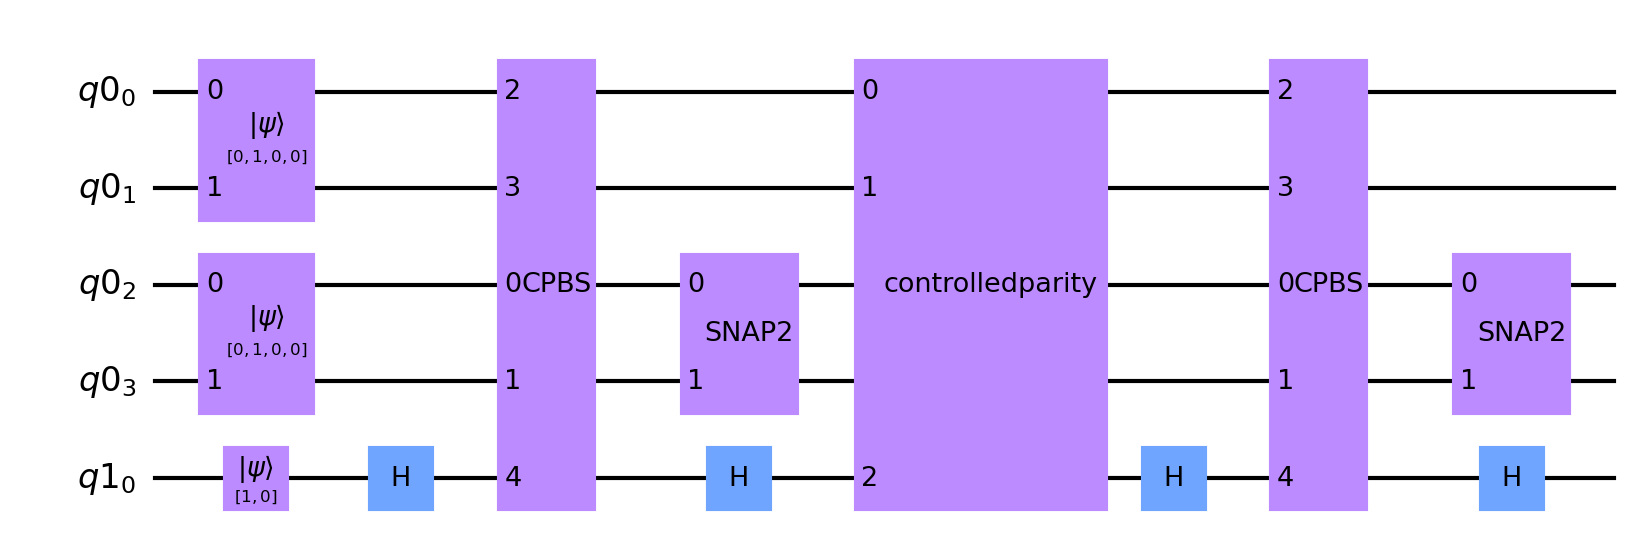
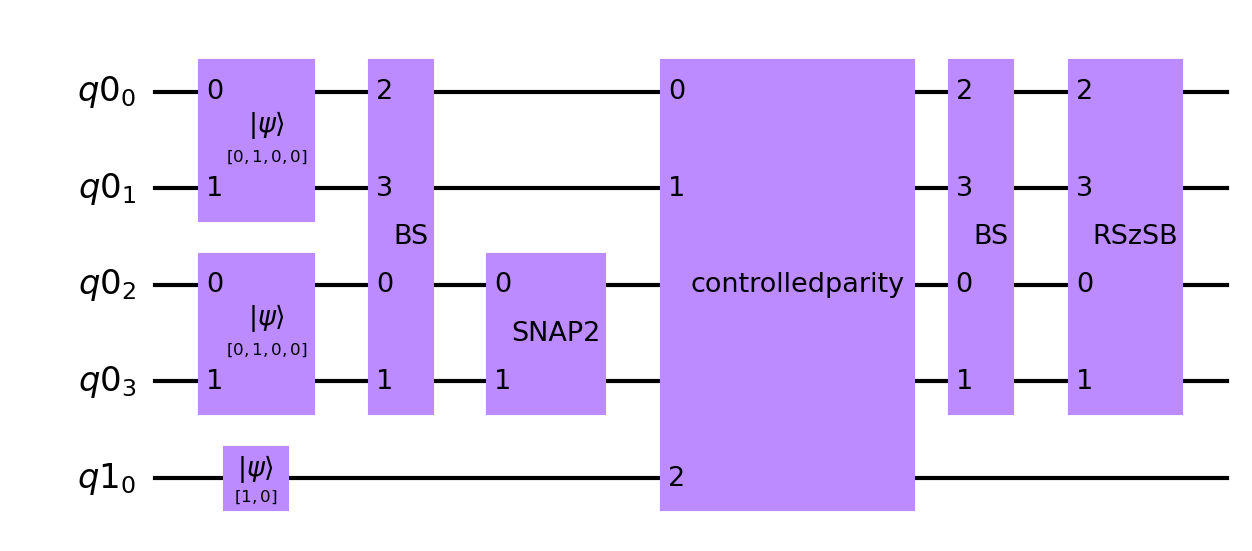
Newer version works to within a global phase

diff --git a/c2qa/aklt.py b/c2qa/aklt.py
@@ -24,69 +24,52 @@ three=np.array([0,0,0,1])
 two=np.array([0,0,1,0])
 one=np.array([0,1,0,0])
 zero=np.array([1,0,0,0])
-projtwo=np.outer(two,two.T)
+projtwo=np.outer(two,two)
 
 # Choose initial state
-qbinist=0
+qbinist=1
 samestallmodes=1
-diffstallmodes=[1,1]
+diffstallmodes=[2,0]
 
 # Initialize qubit
 # circuit.initialize((1 / np.sqrt(2)) * np.array([1, 1]), qbr[0])
 qubitinitialstate=[[zeroQB,"0"],[oneQB,"1"]]
 circuit.initialize(qubitinitialstate[qbinist][0], qbr[0])
 # Initialize both qumodes to a zero spin 1 state (Fock state 1)
-# for i in range(qmr.num_qumodes):
-#     circuit.cv_initialize(samestallmodes, qmr[i])
-circuit.cv_initialize(diffstallmodes[0], qmr[0])
-circuit.cv_initialize(diffstallmodes[1], qmr[1])
-# circuit.cv_initialize(diffstallmodes[2], qmr[2])
-# circuit.cv_initialize(diffstallmodes[3], qmr[3])
+for i in range(qmr.num_qumodes):
+    circuit.cv_initialize(samestallmodes, qmr[i])
 # Check the input state is normalised
 # state0, _ = c2qa.util.simulate(circuit)
 # print("normalised initial state ", np.conj(state0.data).T.dot(state0))
 # print(arg)
 
-# Apply circuit from table with extra snap to correct for the phase
-# for i in range(numberofmodes-1):
-#     if (i % 2) == 0:
-#         circuit.cv_aklt(qmr[i], qmr[i+1], qbr[0])
-#         circuit.cv_snap2(qmr[i+1])
-
-# listofthetas=np.pi*np.array([1,0.5,0.25])
-# list=np.zeros([len(listofthetas)])
-# for theta in range(listofthetas):
-#     circuit.cv_initialize(diffstallmodes[0], qmr[0])
-#     circuit.cv_initialize(diffstallmodes[1], qmr[1])
-#     circuit.cv_cpbs(-theta, qmr[1], qmr[0], qbr[0])
-#     circuit.cv_bs(theta, qmr[1], qmr[0])
-#     state, _ = c2qa.util.simulate(circuit)
-#     projectors.overlap(state, numberofmodes, qbinist, samestallmodes, diffstallmodes, "diffstallmodes", "all")
-
-# # Native gates circuit
+# Native gates circuit
 for i in range(numberofmodes-1):
     if (i % 2) == 0:
-        circuit.h(qbr[0])
-        circuit.cv_cpbs(np.arctan(1/np.sqrt(2)), qmr[i+1], qmr[i], qbr[0])
-        circuit.h(qbr[0])
-        circuit.cv_controlledparity(qmr[i],qbr[0])
+        circuit.cv_bs(np.arctan(1/np.sqrt(2)), qmr[i+1], qmr[i])
         circuit.cv_snap2(qmr[i + 1])
-        circuit.h(qbr[0])
-        circuit.cv_cpbs(np.pi/4, qmr[i+1], qmr[i], qbr[0])
-        circuit.h(qbr[0])
-        circuit.cv_snap2(qmr[i+1])
+        circuit.cv_controlledparity(qmr[i],qbr[0])
+        circuit.cv_bs(np.pi/4, qmr[i+1], qmr[i])
+        circuit.x(qbr[0])
+        circuit.cv_snap1X(qmr[i],qbr[0])
+        # circuit.cv_snap2(qmr[i + 1])
+        circuit.x(qbr[0])
+        circuit.z(qbr[0])
+        circuit.x(qbr[0])
 
+stateAKLT, _ = c2qa.util.simulate(circuit)
+# circuit.cv_RSzSB(qmr[1],qmr[0])
 # print(circuit)
 
 # diffstallmodes=[1,1]
 # gatetesting.differentThetaInitialisation(qmr, circuit, numberofmodes, qbinist, samestallmodes, diffstallmodes)
 
 #simulate circuit and see if it's normalised
-state, _ = c2qa.util.simulate(circuit)
+stateop, _ = c2qa.util.simulate(circuit)
 # print(state)
 # print("normalised final state ",np.conj(state.data).T.dot(state))
 
-projectors.overlap(state, numberofmodes, qbinist, samestallmodes, diffstallmodes, "diffstallmodes" ,"all")
+projectors.overlap(stateop, numberofmodes, qbinist, samestallmodes, diffstallmodes, "samestallmodes" ,"all")
 
 # # Construct an ideal simulator
 # aersim = AerSimulator()
@@ -95,4 +78,4 @@ projectors.overlap(state, numberofmodes, qbinist, samestallmodes, diffstallmodes
 # print('Counts(ideal):', counts_ideal)
 # print(plot_histogram(counts_ideal, title='AKLT').show())
 
-circuit.draw(output='mpl', filename='my_circuit.png')
+circuit.draw(output='mpl', filename='/Users/ecrane/Dropbox/Qiskit c2qa/my_circuit.png')

diff --git a/c2qa/circuit.py b/c2qa/circuit.py
@@ -109,6 +109,14 @@ class CVCircuit(QuantumCircuit):
         operator = ParameterizedOperator(self.ops.snap2)
         self.append(CVGate(data=operator, label="SNAP2"), qargs=qumode_a)
 
+    def cv_snap1(self, qumode_a):
+        operator = ParameterizedOperator(self.ops.snap1)
+        self.append(CVGate(data=operator, label="SNAP1"), qargs=qumode_a)
+
+    def cv_snap1X(self, qumode_a, qubit_ancilla):
+        operator = ParameterizedOperator(self.ops.snap1X)
+        self.append(CVGate(data=operator, label="XSNAP1"), qargs=qumode_a + [qubit_ancilla])
+
     def cv_qubitDependentCavityRotation(self, qumode_a, qubit_ancilla):
         operator = ParameterizedOperator(self.ops.qubitDependentCavityRotation)
         self.append(CVGate(data=operator, label="qubitDependentCavityRotation"), qargs=qumode_a + [qubit_ancilla])
@@ -127,7 +135,11 @@ class CVCircuit(QuantumCircuit):
 
     def cv_controlledparity(self, qumode_a, qubit_ancilla):
         operator = ParameterizedOperator(self.ops.controlledparity)
-        self.append(CVGate(data=operator, label="controlledparity"), qargs=qumode_a + [qubit_ancilla])
+        self.append(CVGate(data=operator, label="cP"), qargs=qumode_a + [qubit_ancilla])
+
+    def cv_RSzSB(self, qumode_a, qumode_b):
+        operator = ParameterizedOperator(self.ops.RSzSB)
+        self.append(CVGate(data=operator, label="RSzSB"), qargs=qumode_a + qumode_b)
 
     def cv_cnd_bs(self, phi, chi, ctrl, qumode_a, qumode_b):
         op_0 = ParameterizedOperator(self.ops.bs, phi)

diff --git a/c2qa/operators.py b/c2qa/operators.py
@@ -93,6 +93,14 @@ class CVOperators:
         arg = arg1 + arg2
         return scipy.sparse.linalg.expm(1j*(np.pi/2)*arg)
 
+    # def SzSB(self):
+    #     arg=self.sbSz
+    #     return scipy.sparse.linalg.expm(1j*arg)
+
+    def RSzSB(self):
+        arg=self.sbSz
+        return scipy.sparse.linalg.expm(1j*np.pi*arg)
+
     def d(self, alpha):
         """Displacement operator"""
         arg = (alpha * self.a_dag) - (np.conjugate(alpha) * self.a)
@@ -166,6 +174,20 @@ class CVOperators:
         # you can do all the photon number states on one cavity on one ancilla, but each cavity needs an ancilla
         twoOP = csr_matrix([[0, 0 ,0 ,0], [0, 0 ,0 ,0], [0 ,0 ,1 ,0], [0, 0 ,0 ,0]])
         arg=np.pi*1j*twoOP
+        return scipy.sparse.linalg.expm(arg)
+
+    def snap1(self):
+        # be careful about adding an extra qubit in here which is in state 1 which will get the negative phase.
+        # you can do all the photon number states on one cavity on one ancilla, but each cavity needs an ancilla
+        oneOP = csr_matrix([[0, 0, 0, 0],[0, 1, 0, 0],[0, 0, 0, 0],[0, 0, 0, 0]])
+        arg=np.pi*1j*oneOP
+        return scipy.sparse.linalg.expm(arg)
+
+    def snap1X(self):
+        yQB = np.array([[0, 1j], [-1j, 0]])
+        oneOP = csr_matrix([[0, 0, 0, 0],[0, 1, 0, 0],[0, 0, 0, 0],[0, 0, 0, 0]])
+        arg1=-1j*np.pi*oneOP/2
+        arg = scipy.sparse.kron(yQB, arg1)
         return scipy.sparse.linalg.expm(arg)
 
     def qubitDependentCavityRotation(self):

diff --git a/c2qa/projectors.py b/c2qa/projectors.py
@@ -18,7 +18,9 @@ three=np.array([0,0,0,1])
 two=np.array([0,0,1,0])
 one=np.array([0,1,0,0])
 zero=np.array([1,0,0,0])
+projone=np.outer(one,one.T)
 projtwo=np.outer(two,two.T)
+# print(projone)
 
 def singlemodestates(numberofmodes):
     modestates = []
